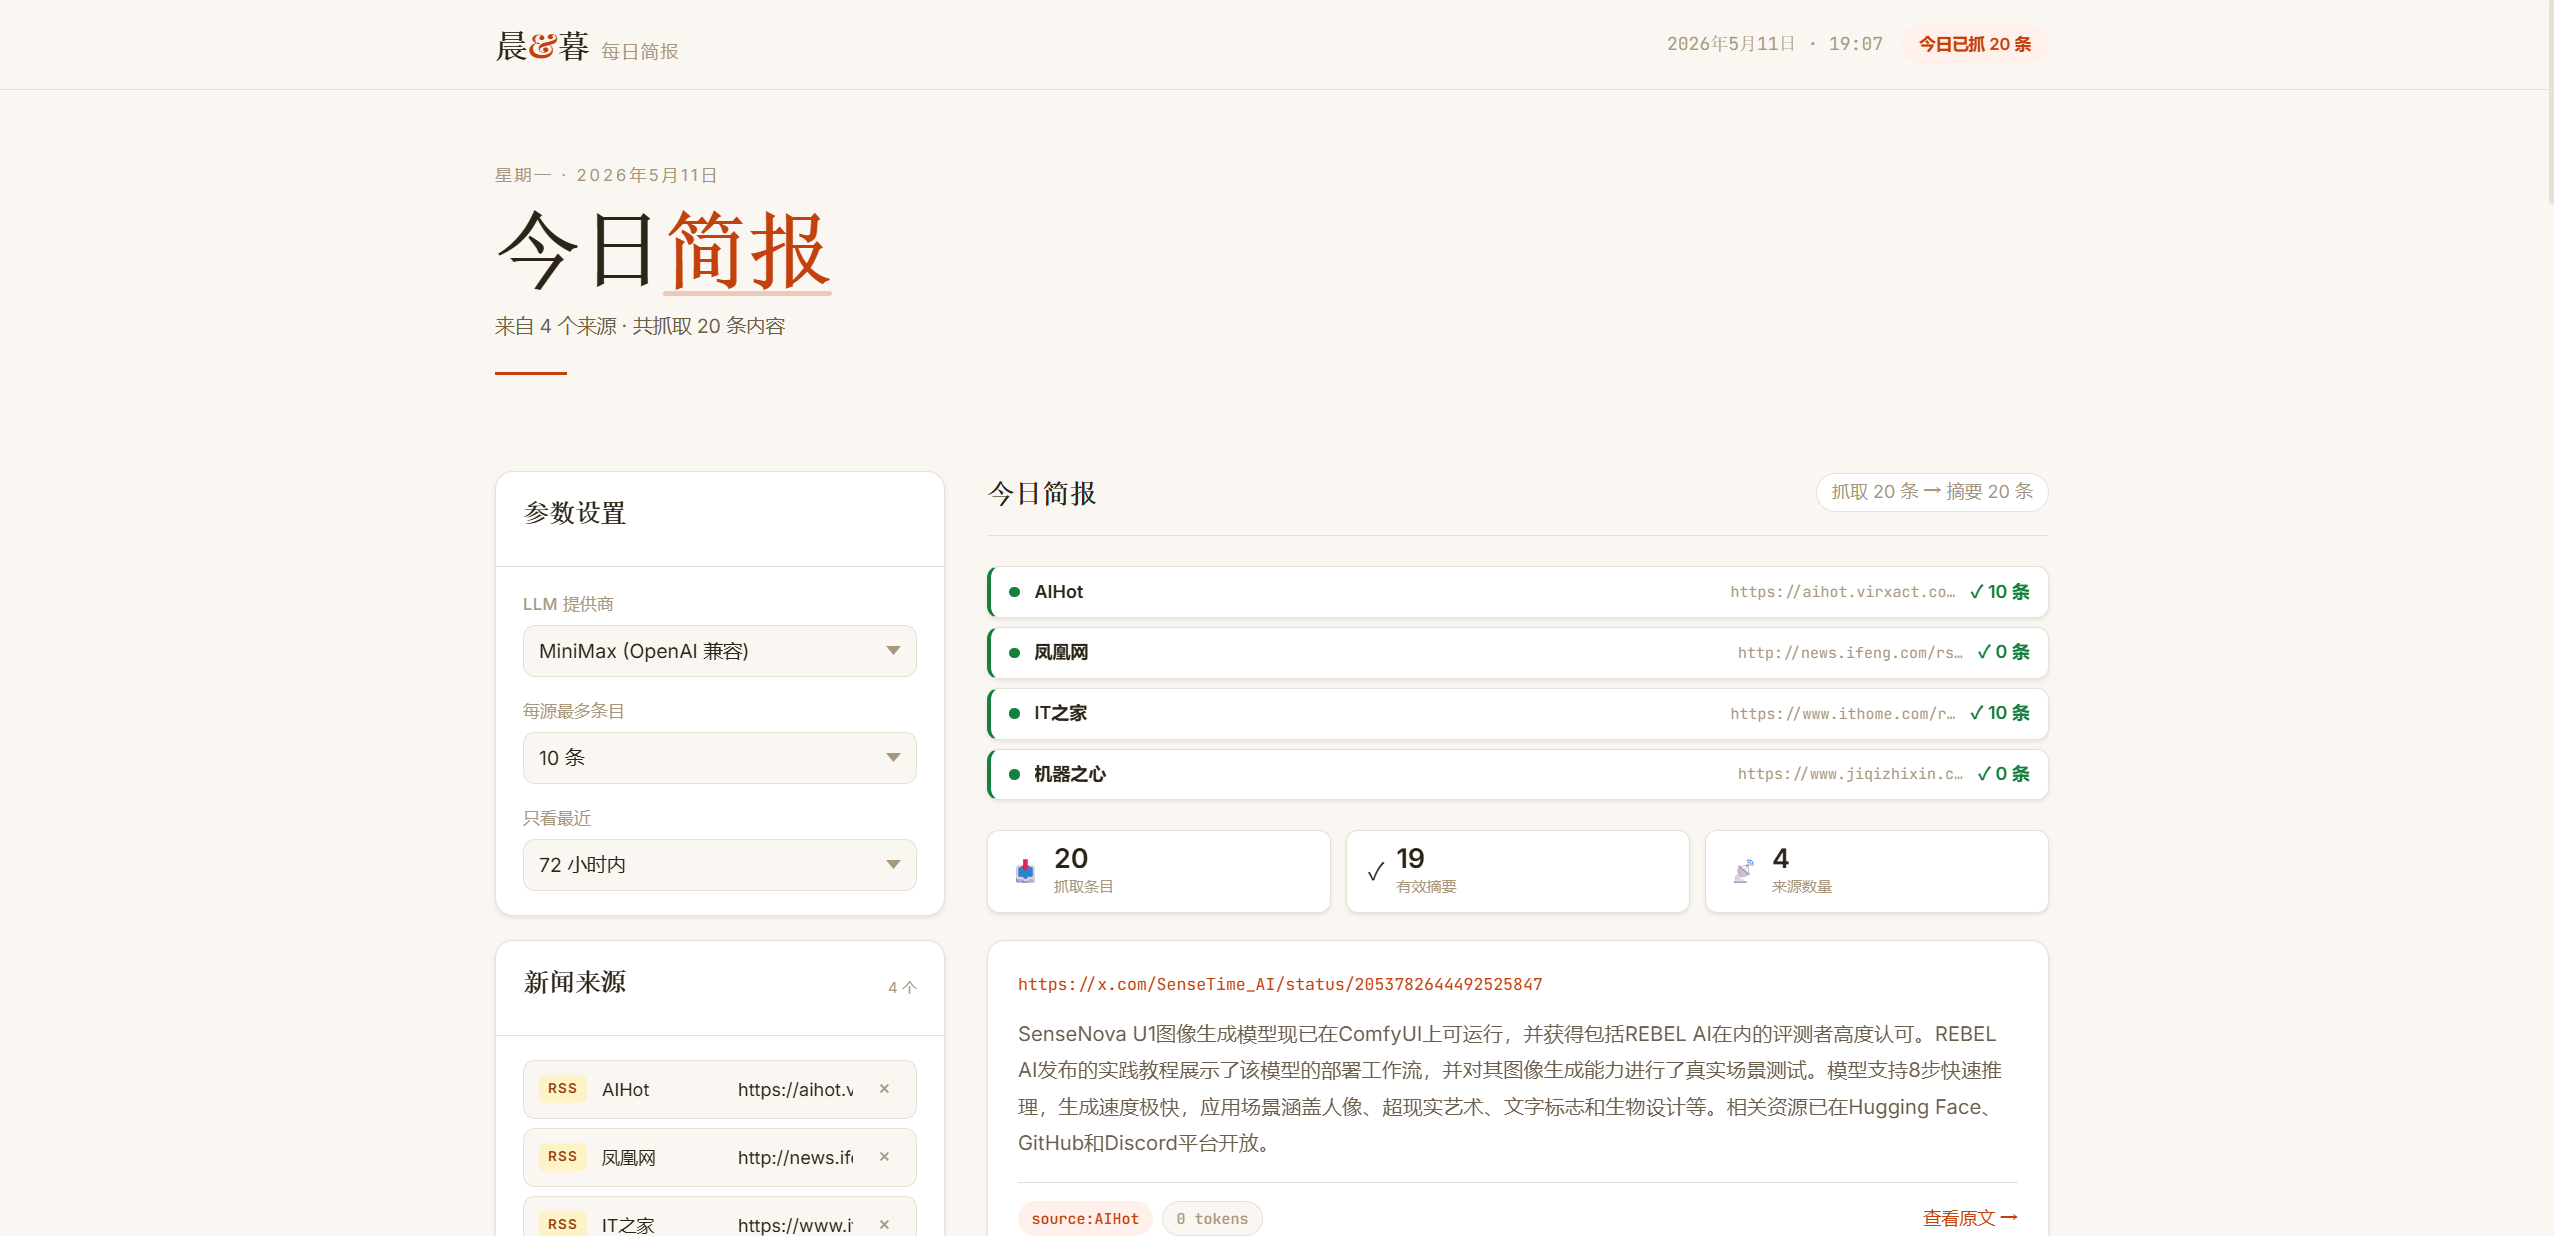
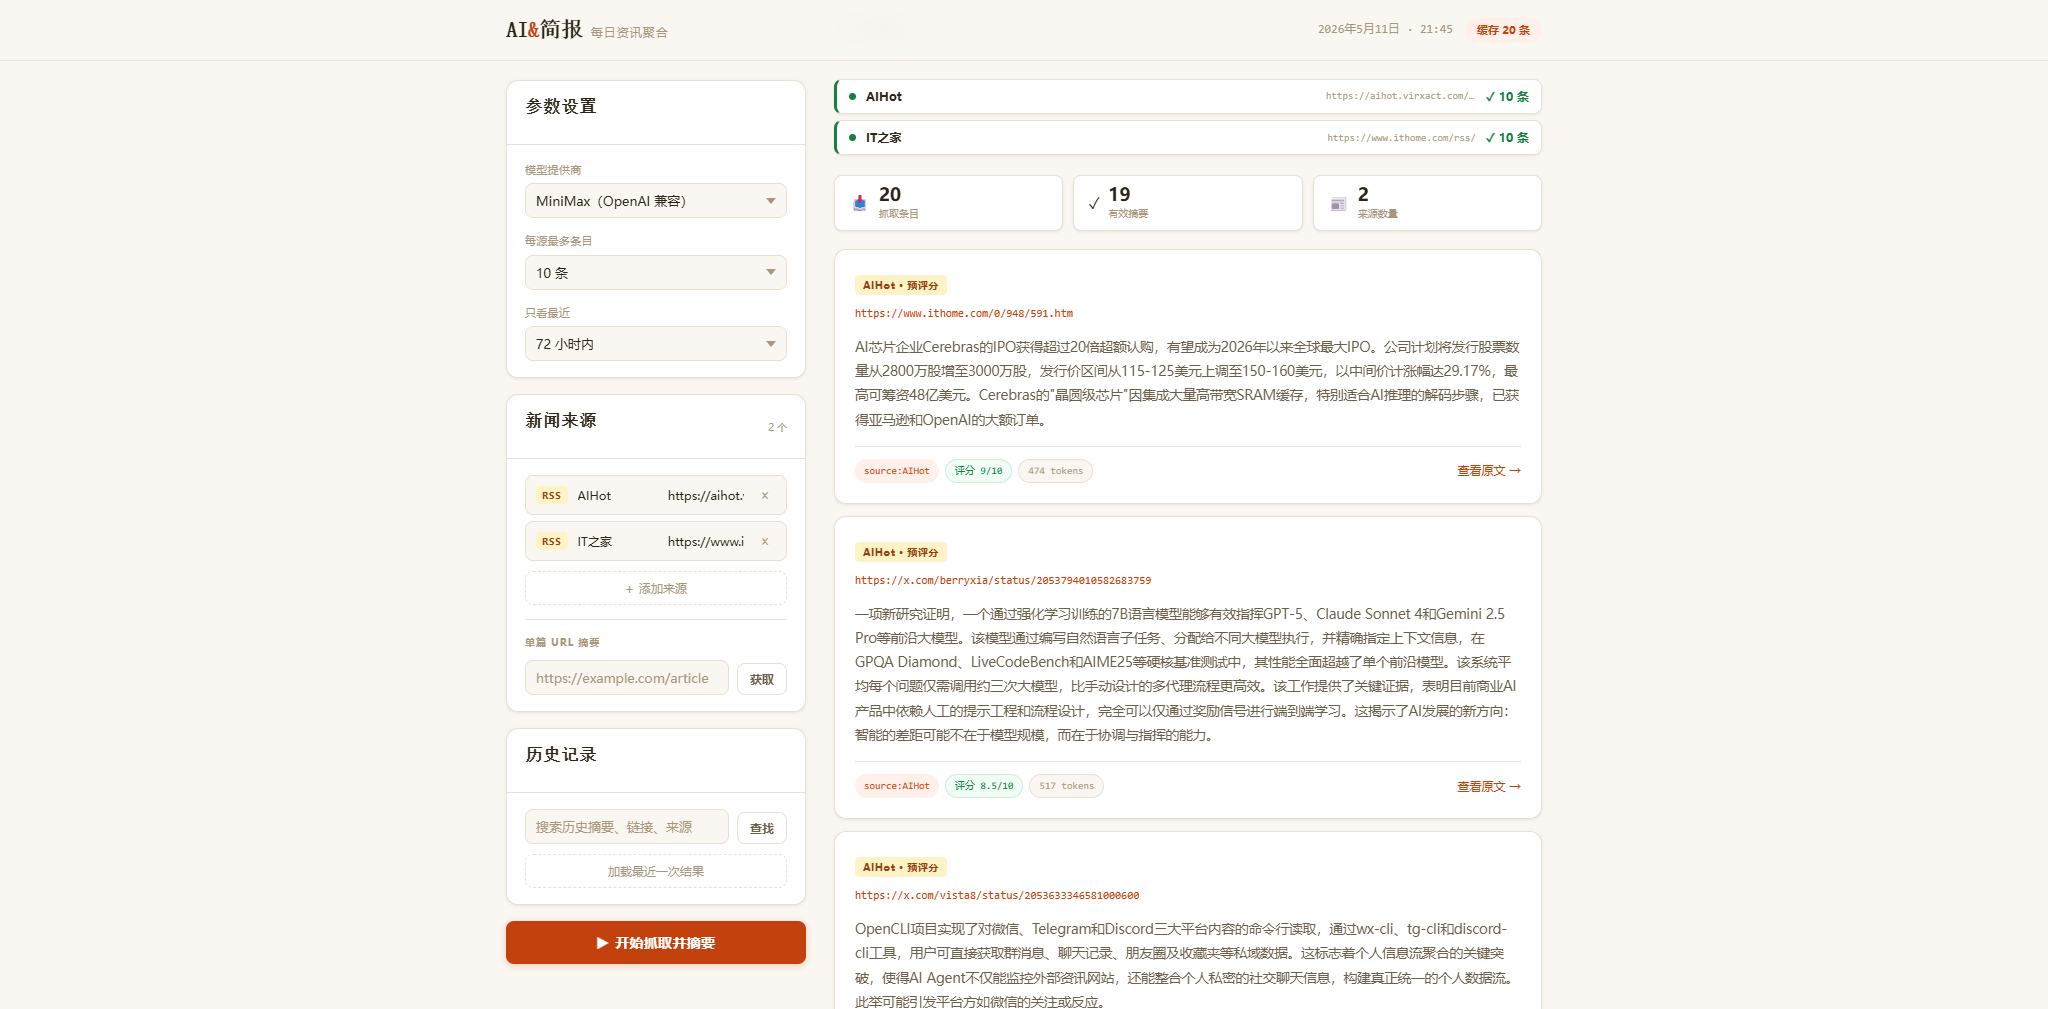
Refresh README screenshot and summary copy

diff --git a/README.md b/README.md
@@ -2,17 +2,23 @@
 
 AI News Summarizer 是一个轻量级个人 AI 新闻简报工具。它可以从 RSS、网页、API 或本地文件抓取内容，再通过 CLI 或 FastAPI Web 界面生成中文摘要、推荐评分和历史记录。
 
-默认配置把 `AIHot` 放在最高优先级，因为它本身已经经过大模型整理；如果 feed 没有提供明确评分，应用会再用大模型生成推荐分，并按评分从高到低展示。
+项目的核心是两件事：
+
+- 大模型摘要：把抓取到的原始新闻整理成可快速扫读的中文摘要
+- 推荐评分：给每条内容打分，并把高分内容排在前面
+
+默认配置把 `AIHot` 放在最高优先级，因为它本身已经经过大模型整理；如果 feed 没有提供明确评分，应用会再用大模型生成推荐分，并按评分从高到低展示。这样你看到的不是一堆原始链接，而是一份已经筛过、排过序的简报。
 
 ## 示例截图
 
-![AI News Summarizer 中文简报界面](docs/assets/readme-example-homepage.png)
+![AI News Summarizer 评分与大模型摘要界面](docs/assets/readme-example-homepage.png)
 
 ## 功能特性
 
 - 多源接入：RSS、网页抓取、API、本地文件
 - 多 LLM 提供商：OpenAI 兼容 API、Anthropic、Ollama
 - AIHot 最高优先级，支持预摘要内容和推荐评分
+- 大模型摘要直接输出中文简报，不需要手工筛选原文
 - 结果按推荐评分排序，并在卡片上显示分数
 - 本地历史缓存，刷新页面无需重新抓取 RSS
 - 历史搜索 API 和 Web 搜索面板

diff --git a/docs/maintenance-log.md b/docs/maintenance-log.md
@@ -89,3 +89,9 @@
 - Made `RSSSource` accept dict-like feed and entry objects so the mocked RSS fixtures used in tests work the same way as real `feedparser` output.
 - Removed stale unused imports flagged by `ruff` in schemas, source base classes, scraper, and source tests.
 - Re-ran the full local check loop after the fix: `compileall`, `pytest`, and `ruff check` all pass.
+
+### 2026-05-11 README screenshot refresh
+
+- Re-captured `docs/assets/readme-example-homepage.png` from the current local UI so the GitHub example image matches the latest score and summary layout.
+- Expanded the README introduction to explain the scoring system and the LLM-generated summary flow more directly.
+- Updated the screenshot alt text so the example image describes the scoring + summary view instead of only the generic homepage.